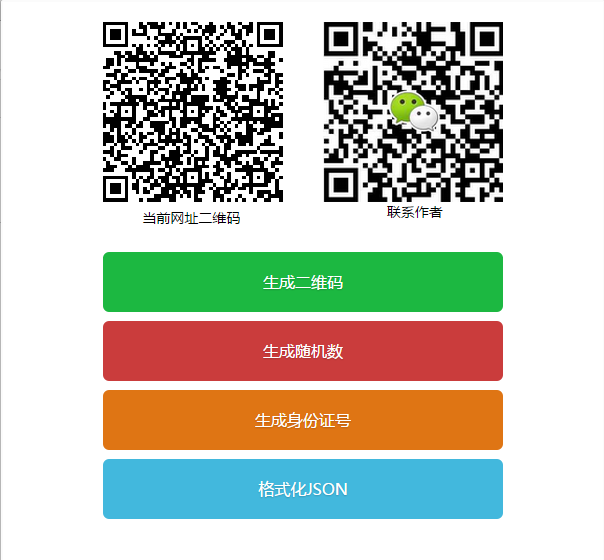
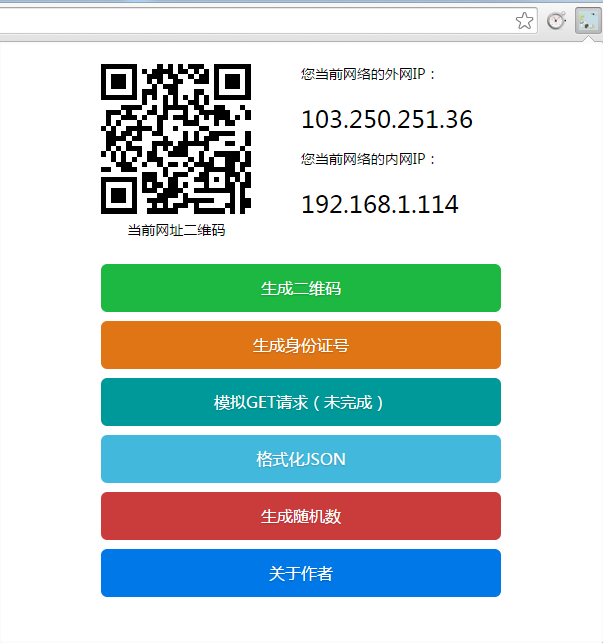
1. update version; 2.add show public ip and private ip; 3.add not complated http get submit tool

diff --git a/extension-tools/page/page.js b/extension-tools/page/page.js
@@ -2,7 +2,7 @@
  ************************ 菜单初始化 ********************
  ********************************************************/
 // 菜单模块
-var div_module_ids = ['home', 'qrcode', 'random_string', 'idcard', 'format_json'];
+var div_module_ids = ['home', 'qrcode', 'random_string', 'idcard', 'format_json', 'author', 'http_get'];
 // 从第二个下标开始，第一个是主页模块
 for(var i = 1; i < div_module_ids.length; i++) {
 	// 菜单模块点击切换内容
@@ -42,11 +42,12 @@ function doMoveClass(eleId, destClass){
     }
 }
 
+
 /********************************************************
  ************************ 生成二维码 ********************
  ********************************************************/
-var qrcodeWidth = 180;
-var qrcodeHeight = 180;
+var qrcodeWidth = 150;
+var qrcodeHeight = 150;
 
 var qrcode = new QRCode(document.getElementById('show_qrcode'),{width:qrcodeWidth,height:qrcodeHeight});
 var qrcode1 = new QRCode(document.getElementById('show_qrcode1'),{width:qrcodeWidth,height:qrcodeHeight});
@@ -64,7 +65,9 @@ document.getElementById('qrcode_url').onkeypress = function(e){
 	qrcode.makeCode(this.value);
 };
 
-
+/*
+ * chrome加载时获取网页地址
+ */
 chrome.windows.getCurrent(function(win){ 
 	chrome.tabs.getSelected(function(tab){
 		
@@ -98,3 +101,99 @@ function drawImg(img,x,y,width,height){
 	;
 	myctx.drawImage(img,x||0,y||0,width,height);
 }
+
+
+/********************************************************
+ ************************ 获取本机IP ********************
+ ********************************************************/
+getIPs(function(ip,type){
+	if('1' == type) {
+		document.getElementById('div_private_ip').innerHTML = ip;
+	} else if('2' == type) {
+		document.getElementById('div_public_ip').innerHTML = ip;
+	}
+});
+
+/*
+ * 获取本机内网、外网IP地址  type==1：内网；type==2：外网
+ * add by yzChen
+ * time: 2015-10-29 21:04:56
+ */
+function getIPs(callback){
+    var ip_dups = {};
+
+    //compatibility for firefox and chrome
+    var RTCPeerConnection = window.RTCPeerConnection
+        || window.mozRTCPeerConnection
+        || window.webkitRTCPeerConnection;
+
+    //bypass naive webrtc blocking
+    if (!RTCPeerConnection) {
+        var iframe = document.createElement('iframe');
+        //invalidate content script
+        iframe.sandbox = 'allow-same-origin';
+        iframe.style.display = 'none';
+        document.body.appendChild(iframe);
+        var win = iframe.contentWindow;
+        window.RTCPeerConnection = win.RTCPeerConnection;
+        window.mozRTCPeerConnection = win.mozRTCPeerConnection;
+        window.webkitRTCPeerConnection = win.webkitRTCPeerConnection;
+        RTCPeerConnection = window.RTCPeerConnection
+            || window.mozRTCPeerConnection
+            || window.webkitRTCPeerConnection;
+    }
+
+    //minimal requirements for data connection
+    var mediaConstraints = {
+        optional: [{RtpDataChannels: true}]
+    };
+
+    //firefox already has a default stun server in about:config
+    //    media.peerconnection.default_iceservers =
+    //    [{"url": "stun:stun.services.mozilla.com"}]
+    var servers = undefined;
+
+    //add same stun server for chrome
+    if(window.webkitRTCPeerConnection)
+        servers = {iceServers: [{urls: "stun:stun.services.mozilla.com"}]};
+
+    //construct a new RTCPeerConnection
+    var pc = new RTCPeerConnection(servers, mediaConstraints);
+
+    //listen for candidate events
+    pc.onicecandidate = function(ice){
+	
+        //skip non-candidate events
+        if(ice.candidate){
+
+            //match just the IP address
+            var ip_regex = /([0-9]{1,3}(\.[0-9]{1,3}){3})/
+            var ip_addr = ip_regex.exec(ice.candidate.candidate)[1];
+
+            //remove duplicates
+            if(ip_dups[ip_addr] === undefined) {
+				_type = '';
+				if(ip_addr.match(/^(192\.168\.|169\.254\.|10\.|172\.(1[6-9]|2\d|3[01]))/)) {
+					_type = '1';
+				} else {
+					_type = '2';
+				}
+                callback(ip_addr, _type);
+			}
+
+            ip_dups[ip_addr] = true;
+        }
+    };
+
+    //create a bogus data channel
+    pc.createDataChannel("");
+
+    //create an offer sdp
+    pc.createOffer(function(result){
+
+        //trigger the stun server request
+        pc.setLocalDescription(result, function(){}, function(){});
+
+    }, function(){});
+}
+

diff --git a/extension-tools/page.html b/extension-tools/page.html
@@ -1,7 +1,7 @@
 
 <html>
 <head>
-<title>tools</title>
+<title>GJP-chrome-extension-tools</title>
 <meta http-equiv="content-type" content="text/html;charset=utf-8">
 <link rel="stylesheet" type="text/css" href="page/pure-min.css" />
 <link rel="stylesheet" type="text/css" href="page/page.css" />
@@ -15,23 +15,40 @@
 				<div class="div-qrcode1-text">当前网址二维码</div>
 			</div>
 			<div class="pure-u-1-2 div-qrcode">
-				<div id="show_qrcode2"><img class="div-qrcode2-img" src="images/author.png" width="180" height="180"/></div>
-				<div class="div-qrcode2-text">联系作者</div>
+				<div class="pure-g">
+					<div class="pure-u-1-1" style="height: 25px; text-align: left;">
+						您当前网络的外网IP：
+					</div>
+					<div id="div_public_ip" class="pure-u-1-1" style="height: 60px; line-height: 60px; font-size: 24px; text-align: left;">
+						加载中...
+					</div>
+					<div class="pure-u-1-1" style="height: 25px; text-align: left;">
+						您当前网络的内网IP：
+					</div>
+					<div id="div_private_ip" class="pure-u-1-1" style="height: 60px; line-height: 60px; font-size: 24px; text-align: left;">
+						加载中...
+					</div>
+				</div>
 			</div>
 			<div class="pure-u-1-1">
 				<input type="button" id="btn_module_qrcode" class=" button-big green pure-button pure-u-2-3" value="生成二维码" />
 			</div>
 			<div class="pure-u-1-1">
-				<input type="button" id="btn_module_random_string" class="button-big maroon pure-button pure-u-2-3" value="生成随机数" />
+				<input type="button" id="btn_module_idcard" class="button-big orange pure-button pure-u-2-3" value="生成身份证号" />
 			</div>
 			<div class="pure-u-1-1">
-				<input type="button" id="btn_module_idcard" class="button-big orange pure-button pure-u-2-3" value="生成身份证号" />
+				<input type="button" id="btn_module_http_get" class="button-big blue2 pure-button pure-u-2-3" value="模拟GET请求（未完成）" />
 			</div>
 			<div class="pure-u-1-1">
 				<input type="button" id="btn_module_format_json" class="button-big blue pure-button pure-u-2-3" value="格式化JSON" />
 			</div>
+			<div class="pure-u-1-1">
+				<input type="button" id="btn_module_random_string" class="button-big maroon pure-button pure-u-2-3" value="生成随机数" />
+			</div>
+			<div class="pure-u-1-1">
+				<input type="button" id="btn_module_author" class="button-big blue1 pure-button pure-u-2-3" value="关于作者" />
+			</div>
 		</div>
-		
 		
 		<div id="qrcode" class="pure-g div-module-hide">
 			<div class="pure-u-2-3 div-module-title green">
@@ -152,6 +169,42 @@
 					</div>
 				</form>
 				<script type="text/javascript" src="formatjson/format.js"></script>
+			</div>
+		</div>
+		
+		
+		<div id="author" class="pure-g div-module-hide">
+			<div class="pure-u-2-3 div-module-title blue1">
+				<table width="100%">
+					<tr>
+						<td align="left" style="padding-left: 20px;">关于作者</td>
+						<td align="right" style="padding-right: 20px;"><a id="btn_module_backhome_author" href="javascript:;" class="a-backhome">返回<<<a/></td>
+					</tr>
+				</table>
+			</div>
+			<div class="pure-u-2-3">
+				<div id="show_qrcode2"><img class="div-qrcode2-img" src="images/author.png" width="390" height="390"/></div>
+			</div>
+		</div>
+		
+		
+		<div id="http_get" class="pure-g div-module-hide">
+			<div class="pure-u-2-3 div-module-title blue2">
+				<table width="100%">
+					<tr>
+						<td align="left" style="padding-left: 20px;">模拟GET请求</td>
+						<td align="right" style="padding-right: 20px;"><a id="btn_module_backhome_http_get" href="javascript:;" class="a-backhome">返回<<<a/></td>
+					</tr>
+				</table>
+			</div>
+			<div class="pure-u-2-3">
+				<form class="pure-form">
+					<input type="text" id="txt_http_get_url" class="pure-input-1 input-text-big" placeholder="请输入需要模拟GET请求的URL地址"/>
+					<input type="button" id="" class="button blue1 pure-button pure-u-1-1" style="margin-top:8px; margin-left: 0px;" value="提交"/>
+				</form>
+			</div>
+			<div class="pure-u-1-2">
+				<div id="http_get_callback" style="margin-left: 40px; margin-top: 40px;"></div>
 			</div>
 		</div>
 	</div>

diff --git a/extension-tools/page/page.css b/extension-tools/page/page.css
@@ -6,12 +6,11 @@
 .div-module-title {border-radius:6px;margin: 0.3em;margin-bottom:10px;}
 .div-module-title table {height:40px;line-height:40px;color:white;}
 .div-qrcode1-text, .div-qrcode2-text {text-align:center;}
-.div-qrcode1-text {padding-left:76px;}
-.div-qrcode2-text {padding-right:76px;}
+.div-qrcode1-text {padding-left:50px;}
 .div-qrcode {margin-bottom:20px;}
-.div-qrcode2-img {padding-right:80px;margin-bottom:6px;}
+.div-qrcode2-img {margin-bottom:6px;}
 .a-backhome {color:white;text-decoration:none;}
-.button-big {color:white;border-radius:6px;text-shadow:0 1px 1px rgba(0, 0, 0, 0.2);	height:60px;margin:0.3em;font-size:16px;}
+.button-big {color:white;border-radius:6px;text-shadow:0 1px 1px rgba(0, 0, 0, 0.2);	height:48px;margin:0.3em;font-size:16px;}
 .button{color:white;border-radius:6px;text-shadow:0 1px 1px rgba(0, 0, 0, 0.2);	margin:0.3em;font-size:14px;}
 .green {	background:rgb(28, 184, 65);}
 .maroon {background:rgb(202, 60, 60);}
@@ -19,7 +18,7 @@
 .blue {background:rgb(66, 184, 221);}
 .blue1 {background:#0078e7;}
 .blue2 {background:rgb(0, 153, 153);}
-.input-text-big {font-size:18px;height:60px;line-height:60px;}
+.input-text-big {font-size:18px;height:48px;line-height:48px;}
 .field-line{height:35px;line-height:35px;text-align:left;font-size:16px;}
 .submit-line{height:60px;line-height:60px;}
 .submit-line-small{height:50px;line-height:50px;}
